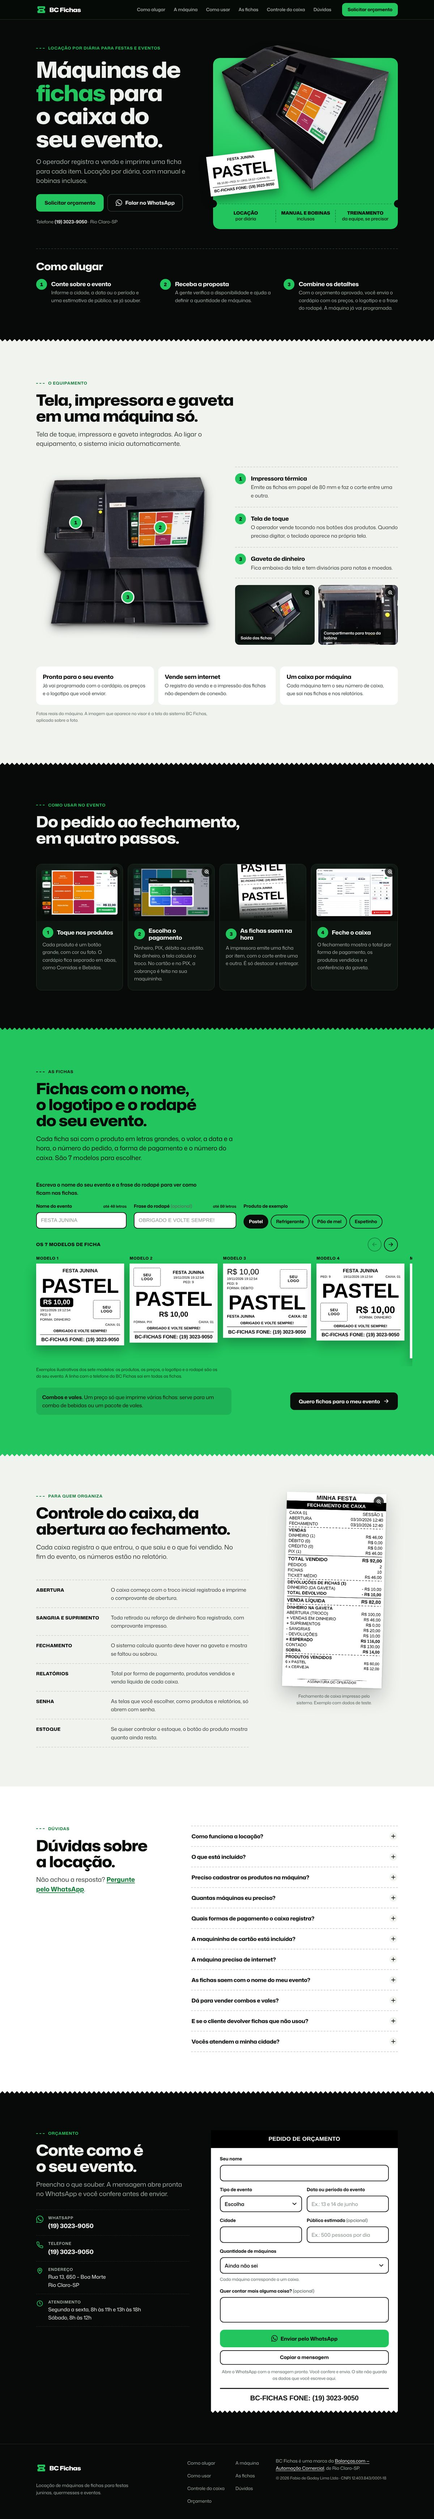
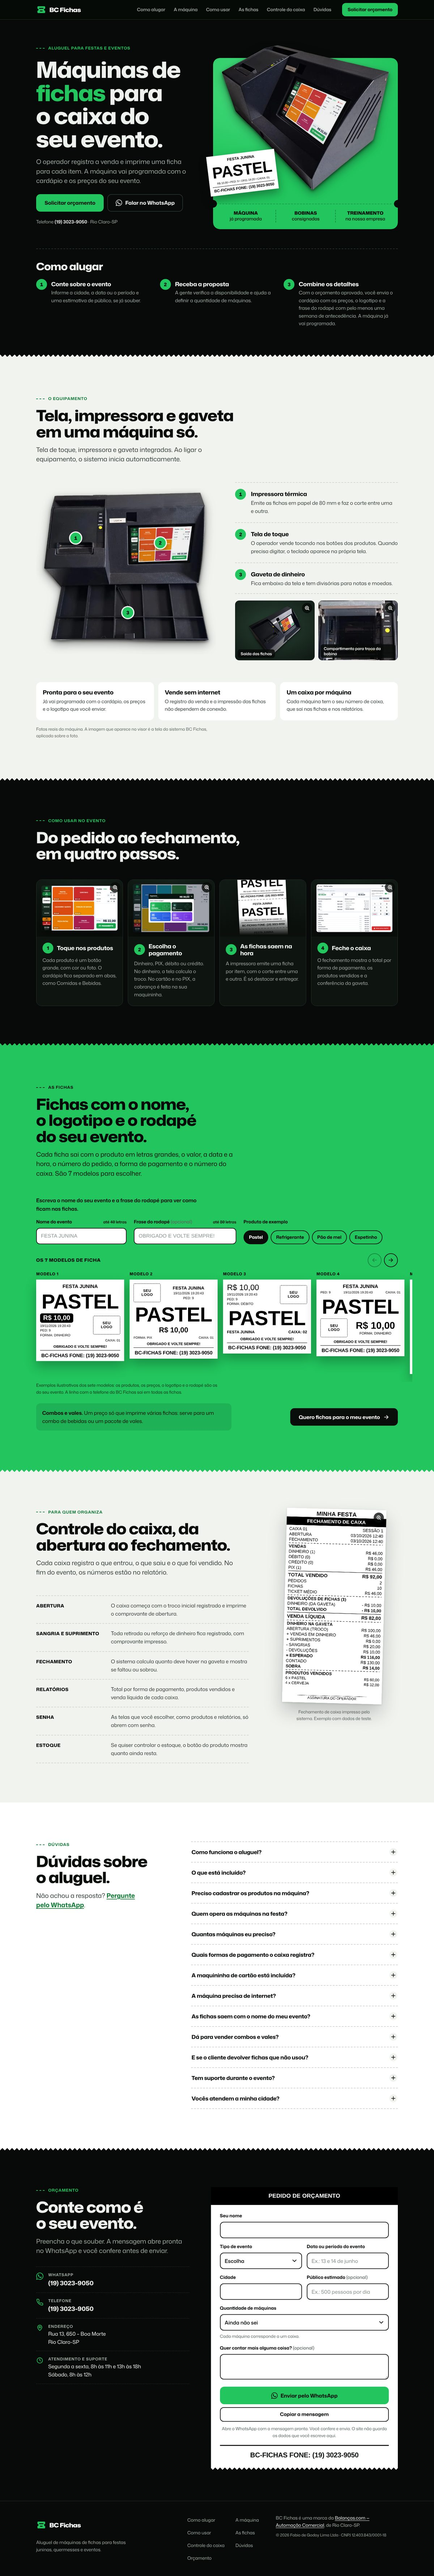
Condições do aluguel confirmadas pelo responsável
- "Aluguel" no lugar de "locação por diária" (título, abertura,
  dúvidas, rodapé e imagem de compartilhamento)
- Bobinas consignadas (o cliente só paga as que usar), no lugar de
  "bobinas inclusas"
- Treinamento dado na empresa; quem opera é a equipe de quem aluga
- Suporte no horário de funcionamento, pelo mesmo número
- Cardápio, preços e logotipo com pelo menos uma semana de antecedência
- Pendências atualizadas

Claude-Session: https://claude.ai/code/session_01Jb1gVohqprNRxVwLM3BG3P

diff --git a/site/index.html b/site/index.html
@@ -3,8 +3,8 @@
 <head>
 <meta charset="utf-8">
 <meta name="viewport" content="width=device-width, initial-scale=1, viewport-fit=cover">
-<title>BC Fichas | Locação de máquinas de fichas para festas e eventos</title>
-<meta name="description" content="Locação por diária de máquinas de fichas para festas juninas, quermesses e eventos. O caixa registra a venda e imprime as fichas na hora. Manual e bobinas inclusos. Solicite o orçamento pelo WhatsApp.">
+<title>BC Fichas | Aluguel de máquinas de fichas para festas e eventos</title>
+<meta name="description" content="Aluguel de máquinas de fichas para festas juninas, quermesses e eventos. O caixa registra a venda e imprime as fichas na hora, com o nome do seu evento. Solicite o orçamento pelo WhatsApp.">
 <link rel="canonical" href="https://bcfichas.balancass.com/">
 <meta name="theme-color" content="#070A08">
 <meta name="format-detection" content="telephone=no">
@@ -13,7 +13,7 @@
 <meta property="og:locale" content="pt_BR">
 <meta property="og:site_name" content="BC Fichas">
 <meta property="og:title" content="BC Fichas | Máquinas de fichas para o caixa do seu evento">
-<meta property="og:description" content="Locação por diária para festas juninas, quermesses e eventos. As fichas saem impressas na hora, com o nome do seu evento.">
+<meta property="og:description" content="Aluguel para festas juninas, quermesses e eventos. As fichas saem impressas na hora, com o nome do seu evento.">
 <meta property="og:url" content="https://bcfichas.balancass.com/">
 <meta property="og:image" content="https://bcfichas.balancass.com/img/compartilhar.jpg">
 <meta property="og:image:width" content="1200">
@@ -45,9 +45,9 @@
     {
       "@type": "Service",
       "@id": "https://bcfichas.balancass.com/#servico",
-      "name": "BC Fichas: locação de máquinas de fichas para eventos",
-      "serviceType": "Locação de terminais emissores de fichas",
-      "description": "Locação por diária de máquinas de fichas para festas juninas, quermesses e eventos. A máquina vai programada com os produtos, os preços e o logotipo do evento, com manual e bobinas inclusos e treinamento da equipe, se precisar.",
+      "name": "BC Fichas: aluguel de máquinas de fichas para eventos",
+      "serviceType": "Aluguel de máquinas de fichas",
+      "description": "Aluguel de máquinas de fichas para festas juninas, quermesses e eventos. A máquina vai programada com os produtos, os preços e o logotipo do evento. O treinamento é dado na empresa e as bobinas são consignadas.",
       "url": "https://bcfichas.balancass.com/",
       "image": "https://bcfichas.balancass.com/img/compartilhar.jpg",
       "provider": {
@@ -70,18 +70,18 @@
       "mainEntity": [
         {
           "@type": "Question",
-          "name": "Como funciona a locação?",
-          "acceptedAnswer": { "@type": "Answer", "text": "A locação é por diária. Você informa a cidade, a data e como é o evento, e recebe a proposta pelo WhatsApp. Com o orçamento aprovado, envia o cardápio com os preços, o logotipo e a frase do rodapé, e a máquina já vai programada." }
+          "name": "Como funciona o aluguel?",
+          "acceptedAnswer": { "@type": "Answer", "text": "Você informa a cidade, a data e como é o evento, e recebe a proposta pelo WhatsApp. Com o orçamento aprovado, envia o cardápio com os preços, o logotipo e a frase do rodapé com pelo menos uma semana de antecedência. A máquina já vai programada." }
         },
         {
           "@type": "Question",
           "name": "O que está incluído?",
-          "acceptedAnswer": { "@type": "Answer", "text": "O manual e as bobinas de papel. Se precisar, a equipe que vai operar os caixas também recebe treinamento." }
+          "acceptedAnswer": { "@type": "Answer", "text": "O manual e o treinamento, que é dado na nossa empresa, em Rio Claro-SP. As bobinas de papel são consignadas: você só paga as que usar." }
         },
         {
           "@type": "Question",
           "name": "Preciso cadastrar os produtos na máquina?",
-          "acceptedAnswer": { "@type": "Answer", "text": "Não. Você envia a lista de produtos, os preços, o logotipo e a frase do rodapé das fichas. A máquina já vai programada para o seu evento." }
+          "acceptedAnswer": { "@type": "Answer", "text": "Não. Você envia a lista de produtos, os preços, o logotipo e a frase do rodapé das fichas, e a máquina já vai programada para o seu evento. Pedimos esse material com pelo menos uma semana de antecedência." }
         },
         {
           "@type": "Question",
@@ -171,9 +171,9 @@
 <section class="heroi" id="inicio" aria-labelledby="t-inicio">
   <div class="miolo heroi__grade">
     <div class="heroi__texto">
-      <p class="rotulo">Locação por diária para festas e eventos</p>
+      <p class="rotulo">Aluguel para festas e eventos</p>
       <h1 id="t-inicio">Máquinas de <span class="realce">fichas</span> para o caixa do seu evento.</h1>
-      <p class="lide">O operador registra a venda e imprime uma ficha para cada item. Locação por diária, com manual e bobinas inclusos.</p>
+      <p class="lide">O operador registra a venda e imprime uma ficha para cada item. A máquina vai programada com o cardápio e os preços do seu evento.</p>
       <div class="acoes">
         <a class="btn btn--zap btn--g" href="#orcamento">Solicitar orçamento</a>
         <a class="btn btn--linha btn--g" data-zap href="https://wa.me/551930239050?text=Ol%C3%A1!%20Vim%20pelo%20site%20do%20BC%20Fichas%20e%20quero%20um%20or%C3%A7amento%20para%20o%20meu%20evento." target="_blank" rel="noopener"><svg class="i" aria-hidden="true"><use href="#i-zap"/></svg>Falar no WhatsApp</a>
@@ -199,9 +199,9 @@
           </div>
         </div>
         <ul class="bilhete__canhoto" role="list">
-          <li><b>Locação</b> por diária</li>
-          <li><b>Manual e bobinas</b> inclusos</li>
-          <li><b>Treinamento</b> da equipe, se precisar</li>
+          <li><b>Máquina</b> já programada</li>
+          <li><b>Bobinas</b> consignadas</li>
+          <li><b>Treinamento</b> na nossa empresa</li>
         </ul>
       </div>
     </div>
@@ -232,7 +232,7 @@
           <span class="marco" aria-hidden="true">3</span>
           <div>
             <h3>Combine os detalhes</h3>
-            <p>Com o orçamento aprovado, você envia o cardápio com os preços, o logotipo e a frase do rodapé. A máquina já vai programada.</p>
+            <p>Com o orçamento aprovado, você envia o cardápio com os preços, o logotipo e a frase do rodapé com pelo menos uma semana de antecedência. A máquina já vai programada.</p>
           </div>
         </li>
       </ol>
@@ -634,22 +634,26 @@
   <div class="miolo duvidas">
     <header class="cabeca">
       <p class="rotulo">Dúvidas</p>
-      <h2 id="t-duvidas">Dúvidas sobre a locação.</h2>
+      <h2 id="t-duvidas">Dúvidas sobre o aluguel.</h2>
       <p class="lide">Não achou a resposta? <a data-zap href="https://wa.me/551930239050?text=Ol%C3%A1!%20Vim%20pelo%20site%20do%20BC%20Fichas%20e%20tenho%20uma%20d%C3%BAvida." data-zap-texto="Olá! Vim pelo site do BC Fichas e tenho uma dúvida." target="_blank" rel="noopener">Pergunte pelo WhatsApp</a>.</p>
     </header>
 
     <div class="duvidas__lista">
       <details class="duvida">
-        <summary><h3>Como funciona a locação?</h3><svg class="i" aria-hidden="true"><use href="#i-mais"/></svg></summary>
-        <p>A locação é por diária. Você informa a cidade, a data e como é o evento, e recebe a proposta pelo WhatsApp. Com o orçamento aprovado, envia o cardápio com os preços, o logotipo e a frase do rodapé, e a máquina já vai programada.</p>
+        <summary><h3>Como funciona o aluguel?</h3><svg class="i" aria-hidden="true"><use href="#i-mais"/></svg></summary>
+        <p>Você informa a cidade, a data e como é o evento, e recebe a proposta pelo WhatsApp. Com o orçamento aprovado, envia o cardápio com os preços, o logotipo e a frase do rodapé com pelo menos uma semana de antecedência. A máquina já vai programada.</p>
       </details>
       <details class="duvida">
         <summary><h3>O que está incluído?</h3><svg class="i" aria-hidden="true"><use href="#i-mais"/></svg></summary>
-        <p>O manual e as bobinas de papel. Se precisar, a equipe que vai operar os caixas também recebe treinamento.</p>
+        <p>O manual e o treinamento, que é dado na nossa empresa, em Rio Claro-SP. As bobinas de papel são consignadas: você só paga as que usar.</p>
       </details>
       <details class="duvida">
         <summary><h3>Preciso cadastrar os produtos na máquina?</h3><svg class="i" aria-hidden="true"><use href="#i-mais"/></svg></summary>
-        <p>Não. Você envia a lista de produtos, os preços, o logotipo e a frase do rodapé das fichas. A máquina já vai programada para o seu evento.</p>
+        <p>Não. Você envia a lista de produtos, os preços, o logotipo e a frase do rodapé das fichas, e a máquina já vai programada para o seu evento. Pedimos esse material com pelo menos uma semana de antecedência.</p>
+      </details>
+      <details class="duvida">
+        <summary><h3>Quem opera as máquinas na festa?</h3><svg class="i" aria-hidden="true"><use href="#i-mais"/></svg></summary>
+        <p>A equipe de quem aluga. O treinamento para operar o caixa é dado na nossa empresa, em Rio Claro-SP.</p>
       </details>
       <details class="duvida">
         <summary><h3>Quantas máquinas eu preciso?</h3><svg class="i" aria-hidden="true"><use href="#i-mais"/></svg></summary>
@@ -678,6 +682,10 @@
       <details class="duvida">
         <summary><h3>E se o cliente devolver fichas que não usou?</h3><svg class="i" aria-hidden="true"><use href="#i-mais"/></svg></summary>
         <p>Se o seu evento aceitar devolução, essa função é liberada na máquina. O valor devolvido sai do caixa em dinheiro, com comprovante, e aparece separado no fechamento.</p>
+      </details>
+      <details class="duvida">
+        <summary><h3>Tem suporte durante o evento?</h3><svg class="i" aria-hidden="true"><use href="#i-mais"/></svg></summary>
+        <p>O suporte atende no horário de funcionamento da empresa (segunda a sexta, das 8h às 11h e das 13h às 18h; sábado, das 8h às 12h), pelo mesmo número: <a href="tel:+551930239050">(19) 3023-9050</a>.</p>
       </details>
       <details class="duvida">
         <summary><h3>Vocês atendem a minha cidade?</h3><svg class="i" aria-hidden="true"><use href="#i-mais"/></svg></summary>
@@ -765,7 +773,7 @@
       </li>
       <li>
         <svg class="i" aria-hidden="true"><use href="#i-hora"/></svg>
-        <div><span>Atendimento</span><p>Segunda a sexta, 8h às 11h e 13h às 18h<br>Sábado, 8h às 12h</p></div>
+        <div><span>Atendimento e suporte</span><p>Segunda a sexta, 8h às 11h e 13h às 18h<br>Sábado, 8h às 12h</p></div>
       </li>
     </ul>
   </div>
@@ -781,7 +789,7 @@
         <svg class="marca__simbolo" aria-hidden="true"><use href="#i-ficha"/></svg>
         <span class="marca__nome">BC Fichas</span>
       </a>
-      <p>Locação de máquinas de fichas para festas juninas, quermesses e eventos.</p>
+      <p>Aluguel de máquinas de fichas para festas juninas, quermesses e eventos.</p>
     </div>
     <nav class="rodape__nav" aria-label="Rodapé">
       <a href="#como-alugar">Como alugar</a>

diff --git a/site/css/site.css b/site/css/site.css
@@ -591,6 +591,7 @@ a.passo__img:hover img { scale: 1.03; }
 .duvida summary .i { width: 26px; height: 26px; padding: 3px; border-radius: 50%; background: var(--papel); transition: rotate .2s ease, background-color .2s ease; }
 .duvida[open] summary .i { rotate: 45deg; background: var(--verde); }
 .duvida p { padding: 0 44px 22px 2px; color: var(--tinta-2); max-width: 62ch; }
+.duvida p a { color: var(--verde-fundo); font-weight: 700; }
 
 /* ---------- Orçamento ---------- */
 .pedido { display: grid; gap: clamp(36px, 6vw, 72px); align-items: start; }

diff --git a/docs/PENDENCIAS.md b/docs/PENDENCIAS.md
@@ -1,64 +1,49 @@
 # Pendências
 
-Situação em 19/11/2026, depois da revisão pedida na avaliação do site. O briefing usado foi o texto do pedido; não chegou nenhum arquivo separado além das fotos e da avaliação.
+Situação em 19/11/2026, com as respostas do responsável sobre as condições do aluguel já aplicadas. O briefing usado foi o texto do pedido; não chegou nenhum arquivo separado além das fotos e da avaliação do site.
 
 ## 1. Para confirmar
 
-### Condições da locação (ficam fora do site até a resposta)
-
-A avaliação pede que estas respostas apareçam no site. Nenhuma está publicada como promessa nem como "a confirmar".
-
-| # | Pergunta |
-|---|---|
-| 1 | Como a diária é contada? E num evento de mais de um dia? |
-| 2 | Há entrega, retirada ou as duas? Como a cidade muda a proposta? |
-| 3 | Quantas bobinas vão com a máquina e como é a reposição? |
-| 4 | Como é o treinamento (onde, quando, quanto tempo) e quem opera as máquinas na festa? |
-| 5 | Existe suporte durante o evento? Por qual canal e em qual horário? |
-| 6 | Com quanta antecedência o cliente precisa enviar o cardápio, os preços e o logotipo? |
-
-### Textos adotados da avaliação
-
-| # | Onde | Texto | O que confirmar |
+| # | Assunto | Como está no site | O que preciso saber |
 |---|---|---|---|
-| 7 | "Como alugar", passo 2 | "A gente verifica a disponibilidade e ajuda a definir a quantidade de máquinas." | É assim que funciona? |
-| 8 | Dúvidas, "Quantas máquinas eu preciso?" | "Informe a duração, o público estimado e como será a venda. A gente ajuda a definir a quantidade de máquinas." | Idem. Existe uma regra prática? |
-| 9 | Dúvidas, internet | "Só a maquininha de cartão depende da conexão dela." | Está certo para as maquininhas que os clientes costumam usar? |
+| 1 | **Quantidade de máquinas** | "A gente verifica a disponibilidade e ajuda a definir a quantidade de máquinas." (em "Como alugar" e nas dúvidas; texto adotado da avaliação) | É assim que funciona? Existe uma regra prática? |
+| 2 | **Painel no celular e maquininha integrada** | Ficaram de fora (versões "Rede" e "Cartão" do sistema). | Já são oferecidos no aluguel? Se sim, entram no site. |
 
-### Outros
+## 2. Publicação
 
-| # | Assunto | O que preciso saber |
-|---|---|---|
-| 10 | **Endereço oficial** | O site está no ar em `bcfichas.vercel.app`. O endereço declarado para o Google e para o compartilhamento continua `bcfichas.balancass.com`. Ele continua sendo o oficial? O registro CNAME já foi criado? |
-| 11 | **Painel no celular e maquininha integrada** | Já são oferecidos na locação? Hoje estão fora do site. |
+- [ ] **Criar o CNAME de `bcfichas.balancass.com`.** O endereço oficial está confirmado, mas o registro ainda não existe. Passo a passo: `docs/PUBLICAR-NA-VERCEL.md`, item 2. Enquanto isso o site funciona em `bcfichas.vercel.app`, mas a imagem de compartilhamento e o endereço indicado ao Google apontam para o oficial.
+- [ ] Testar num celular real: carrossel das fichas, formulário e abertura do WhatsApp.
+- [ ] Com o endereço oficial no ar, enviar o link numa conversa de WhatsApp e ver se a imagem aparece.
+- [ ] Enviar o `sitemap.xml` no Google Search Console.
+- [ ] **Site da Balanças.com:** a seção do BC Fichas ainda diz "Locação por diária" e "Manual e bobinas inclusos", e os links apontam para `bcfichas.com.br` (fora do ar). Vale alinhar com o que foi confirmado aqui.
 
-## 2. Confirmado em 19/11/2026 (já está no site)
+## 3. Confirmado em 19/11/2026 (já está no site)
 
 | Assunto | Resposta | Onde aparece |
 |---|---|---|
-| WhatsApp dos orçamentos | (19) 3023-9050, mantido | Formulário, "Falar no WhatsApp" e contatos |
+| Nome do serviço | "Aluguel", sem dizer "por diária" | Título da página, abertura, dúvidas, rodapé e imagem de compartilhamento |
+| Entrega e retirada | Depende do lugar; não entra no site | Só "consulte a disponibilidade", nas dúvidas |
+| Bobinas | Consignadas: o cliente só paga as que usar | Abertura e "O que está incluído?" |
+| Treinamento | Dado na empresa | Abertura e dúvidas |
+| Quem opera | A equipe de quem aluga | Dúvidas |
+| Suporte | No horário de funcionamento, pelo mesmo número | Dúvidas e contatos |
+| Antecedência | Cardápio, preços e logotipo com pelo menos uma semana | "Como alugar" e dúvidas |
+| Internet | Só a maquininha de cartão depende de conexão | Seção da máquina e dúvidas |
+| Endereço oficial | `bcfichas.balancass.com` | Endereço indicado ao Google, compartilhamento e sitemap |
+| WhatsApp dos orçamentos | (19) 3023-9050 | Formulário, "Falar no WhatsApp" e contatos |
 | Versão do sistema | As máquinas alugadas saem com a 3.11.7 | Textos sobre PIX, modelos de ficha, senha, estoque e devolução |
-| Maquininha de cartão | Por conta do cliente | Passo 2 de "Como usar no evento" e dúvidas |
-| Região atendida | Manter "consulte a disponibilidade" | Dúvidas |
-| Programação | O cliente envia a programação e a máquina já vai pronta | "Como alugar", seção da máquina e dúvidas |
-| Rodapé das fichas | É personalizável | Seção das fichas (simulador e os 7 modelos) e dúvidas |
+| Maquininha de cartão | Por conta do cliente | "Como usar no evento" e dúvidas |
+| Programação | O cliente envia e a máquina já vai pronta | "Como alugar", seção da máquina e dúvidas |
+| Rodapé das fichas | É personalizável | Seção das fichas e dúvidas |
 | Logotipo | Manter o símbolo da ficha com o nome | Cabeçalho, rodapé e ícones |
 | Horário e endereço | Os da Balanças.com valem | Seção de orçamento |
 
-## 3. Imagens
+## 4. Imagens
 
 - **Tela montada nas fotos.** O visor estava desligado; a tela do sistema foi aplicada sobre a foto, e o site avisa. O ideal é fotografar a máquina **ligada**.
 - **Foto ou vídeo da emissão das fichas.** A avaliação sugere trocar a foto da impressora aberta por isso. Hoje ela aparece pequena, numa galeria com ampliação. Se chegar um vídeo, ele entra com reprodução por toque e imagem de capa.
 - **Outras fotos que fariam diferença:** a máquina em uso num evento e a gaveta com dinheiro.
 - **Fichas de exemplo:** os 7 modelos são ilustrações fiéis aos modelos reais do sistema, com "SEU LOGO" no lugar do logotipo e uma frase de exemplo no rodapé.
-
-## 4. Publicação
-
-- [ ] Confirmar o endereço oficial e criar o CNAME de `bcfichas.balancass.com` (guia: `docs/PUBLICAR-NA-VERCEL.md`).
-- [ ] Testar num celular real: carrossel das fichas, formulário e abertura do WhatsApp.
-- [ ] Enviar o link do site numa conversa de WhatsApp e ver se a imagem aparece.
-- [ ] Enviar o `sitemap.xml` no Google Search Console.
-- [ ] No site da Balanças.com, trocar os links de `bcfichas.com.br` (fora do ar) pelo endereço novo.
 
 ## 5. Ficou de fora de propósito
 

diff --git a/README.md b/README.md
@@ -1,6 +1,6 @@
 # Site do BC Fichas
 
-Site de uma página do **BC Fichas**: locação de máquinas de fichas para festas juninas, quermesses e eventos.
+Site de uma página do **BC Fichas**: aluguel de máquinas de fichas para festas juninas, quermesses e eventos.
 O objetivo é o organizador entender o serviço e pedir o orçamento pelo WhatsApp.
 
 Endereço previsto: **https://bcfichas.balancass.com**
@@ -77,9 +77,9 @@ As perguntas e respostas também estão repetidas no bloco `application/ld+json`
 
 Só entrou no site o que está confirmado nos materiais do projeto:
 
-- textos do BC Fichas já publicados no site da Balanças.com (locação por diária, manual e bobinas, treinamento, fichas com logo, combos, relatórios e sangrias);
+- textos do BC Fichas já publicados no site da Balanças.com (fichas com logo, combos, relatórios e sangrias). O que lá aparece como "locação por diária" e "bobinas inclusas" foi corrigido pelo responsável: o site fala em aluguel e em bobinas consignadas;
 - o README do sistema BC Fichas 3.11.7 (formas de pagamento, modelos de ficha, controle de caixa, senha, estoque, devolução) e o código (funciona sem internet);
 - os dados da empresa do site da Balanças.com (telefone, endereço, horário, razão social e CNPJ).
-- as respostas do responsável em 19/11/2026 (maquininha por conta do cliente, máquina que já vai programada, rodapé das fichas personalizável, WhatsApp, horário e endereço).
+- as respostas do responsável em 19/11/2026 (lista completa em `docs/PENDENCIAS.md`, item 3).
 
 Não há preços, depoimentos nem números de clientes. O que precisa de confirmação está em [`docs/PENDENCIAS.md`](docs/PENDENCIAS.md).
